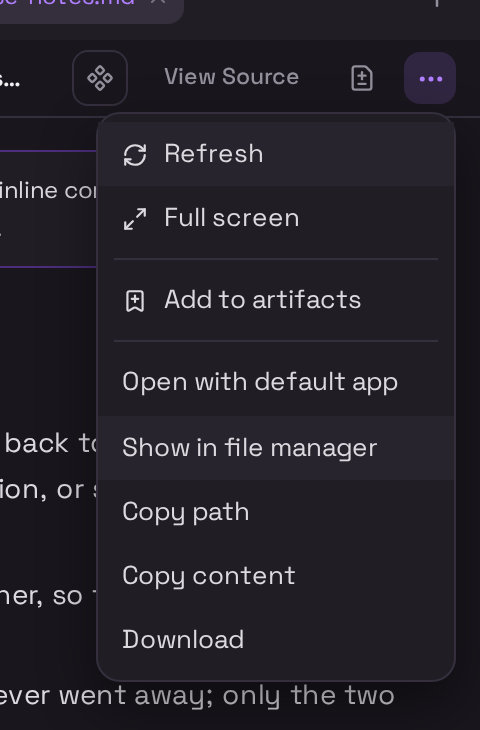
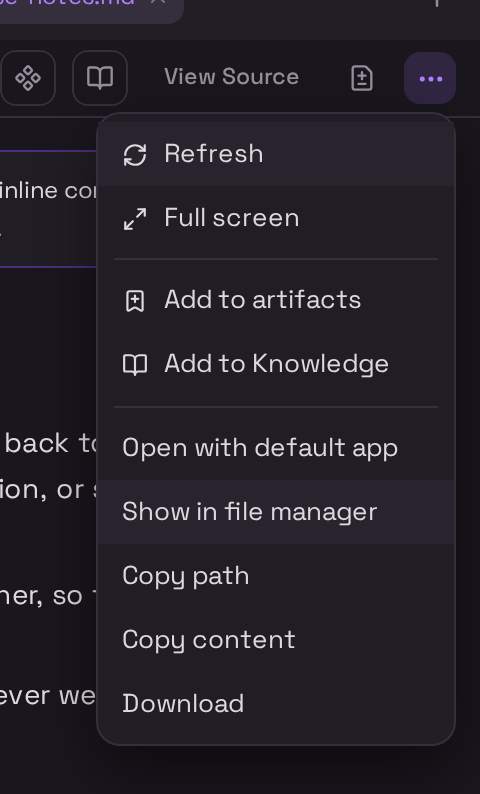
test(panel): guard the file panel's whole menu inventory, not just two entries (#2242)
Per-entry assertions only protect the entries someone thought to name, and the two #1083 deleted were by definition not among them. Locks the ordered inventory across the menu's conditional matrix instead, so any silent deletion, addition or reorder fails and has to be stated. Also fixes the knowledge stub field name in the screenshot harness, which had been suppressing the Add to Knowledge row.

Carries the six ko keys missing on main so this branch can go green on its own; the lines are byte-identical to #2244, which fixes the same gap standalone.

diff --git a/website/src/test/MarkdownPanel.test.tsx b/website/src/test/MarkdownPanel.test.tsx
@@ -119,6 +119,119 @@ describe('MarkdownPanel OverflowMenu', () => {
   })
 })
 
+/**
+ * The ⋯ menu's full inventory, asserted as an ORDERED list.
+ *
+ * Why a whole-inventory assertion rather than one `getByText` per entry: PR
+ * #1083 deleted two entries from this menu and the suite stayed green, because
+ * no test named them. Per-entry tests only protect the entries someone thought
+ * to name — the two that went missing were, by definition, not among them.
+ *
+ * This locks the list instead of its members. A deletion fails; so does an
+ * addition or a reorder, which is deliberate: the failure asks the author to
+ * state the new inventory here, and that edit is the record that the change
+ * was intended. Whoever wrote #1083 would have had to make it.
+ *
+ * The three cases below are the conditional matrix, not three flavours of the
+ * same render — every optional entry in the menu is gated on a prop or on
+ * fetched state, so a single render can only ever see a subset.
+ */
+describe('OverflowMenu inventory (regression guard for #1083)', () => {
+  /** Menu items in DOM order — the roving-focus order `useListboxKeyboard` walks. */
+  const itemsInOrder = () =>
+    Array.from(document.querySelectorAll('[role="menu"] [role="menuitem"]'))
+      .map(el => (el.textContent || '').trim())
+
+  /** The knowledge hook's own contract: `enabled` + `supported_formats`. */
+  function stubKnowledge({ enabled, alreadyAdded }: { enabled: boolean; alreadyAdded: boolean }) {
+    vi.stubGlobal('fetch', vi.fn(async (url: string) => {
+      if (String(url).startsWith('/api/knowledge/config')) {
+        return { ok: true, json: async () => ({ enabled, supported_formats: ['.md', '.txt'] }) }
+      }
+      if (String(url).startsWith('/api/knowledge/sources')) {
+        return { ok: true, json: async () => (alreadyAdded ? [{ id: 1 }] : []) }
+      }
+      return { ok: false, json: async () => ({}) }
+    }))
+  }
+
+  it('renders exactly six entries with no optional props and no library match', async () => {
+    stubKnowledge({ enabled: false, alreadyAdded: false })
+    render(<OverflowMenu filePath="/tmp/hello.bin" content="x" />, { wrapper })
+    fireEvent.click(screen.getByTestId('markdown-panel-more-options'))
+    await waitFor(() => expect(screen.getByText('Add to artifacts')).toBeInTheDocument())
+    expect(itemsInOrder()).toEqual([
+      'Add to artifacts',
+      'Open with default app',
+      'Show in file manager',
+      'Copy path',
+      'Copy content',
+      'Download',
+    ])
+  })
+
+  it('renders every entry when all props are supplied and the file is a known artifact', async () => {
+    stubKnowledge({ enabled: true, alreadyAdded: false })
+    vi.mocked(api).artifacts = vi.fn().mockResolvedValue({ artifacts: [{ slug: 'notes-md', name: 'notes.md' }] })
+    vi.mocked(api).artifact = vi.fn().mockResolvedValue({ live_dirty: false, pinned: false })
+    render(
+      <OverflowMenu
+        filePath="/tmp/notes.md"
+        content="x"
+        onRefresh={vi.fn()}
+        onFullscreen={vi.fn()}
+        onSnapshot={vi.fn()}
+      />,
+      { wrapper },
+    )
+    fireEvent.click(screen.getByTestId('markdown-panel-more-options'))
+    await waitFor(() => expect(screen.getByText('Snapshot version')).toBeInTheDocument())
+    expect(itemsInOrder()).toEqual([
+      'Refresh',
+      'Full screen',
+      'In Artifacts',
+      'Snapshot version',
+      'Add to Knowledge',
+      'Open with default app',
+      'Show in file manager',
+      'Copy path',
+      'Copy content',
+      'Download',
+    ])
+  })
+
+  it('swaps Full screen for Exit full screen without changing the rest of the list', async () => {
+    stubKnowledge({ enabled: false, alreadyAdded: false })
+    render(
+      <OverflowMenu filePath="/tmp/hello.bin" content="x" onFullscreen={vi.fn()} fullscreen />,
+      { wrapper },
+    )
+    fireEvent.click(screen.getByTestId('markdown-panel-more-options'))
+    await waitFor(() => expect(screen.getByText('Exit full screen')).toBeInTheDocument())
+    expect(itemsInOrder()).toEqual([
+      'Exit full screen',
+      'Add to artifacts',
+      'Open with default app',
+      'Show in file manager',
+      'Copy path',
+      'Copy content',
+      'Download',
+    ])
+    expect(screen.queryByText('Full screen')).not.toBeInTheDocument()
+  })
+
+  it('renders the already-in-library row as a non-actionable status, not a menu item', async () => {
+    stubKnowledge({ enabled: true, alreadyAdded: true })
+    render(<OverflowMenu filePath="/tmp/notes.md" content="x" />, { wrapper })
+    fireEvent.click(screen.getByTestId('markdown-panel-more-options'))
+    await waitFor(() => expect(screen.getByText('In Library')).toBeInTheDocument())
+    // It is a <span>: nothing happens when it is activated, so exposing it to
+    // roving focus as a menuitem would be a dead stop on the keyboard path.
+    expect(itemsInOrder()).not.toContain('In Library')
+    expect(screen.queryByText('Add to Knowledge')).not.toBeInTheDocument()
+  })
+})
+
 describe('breadcrumbSegments', () => {
   it('shows the last three segments with the file last and non-navigable', () => {
     const crumbs = breadcrumbSegments('/home/user/project/src/app.ts')
